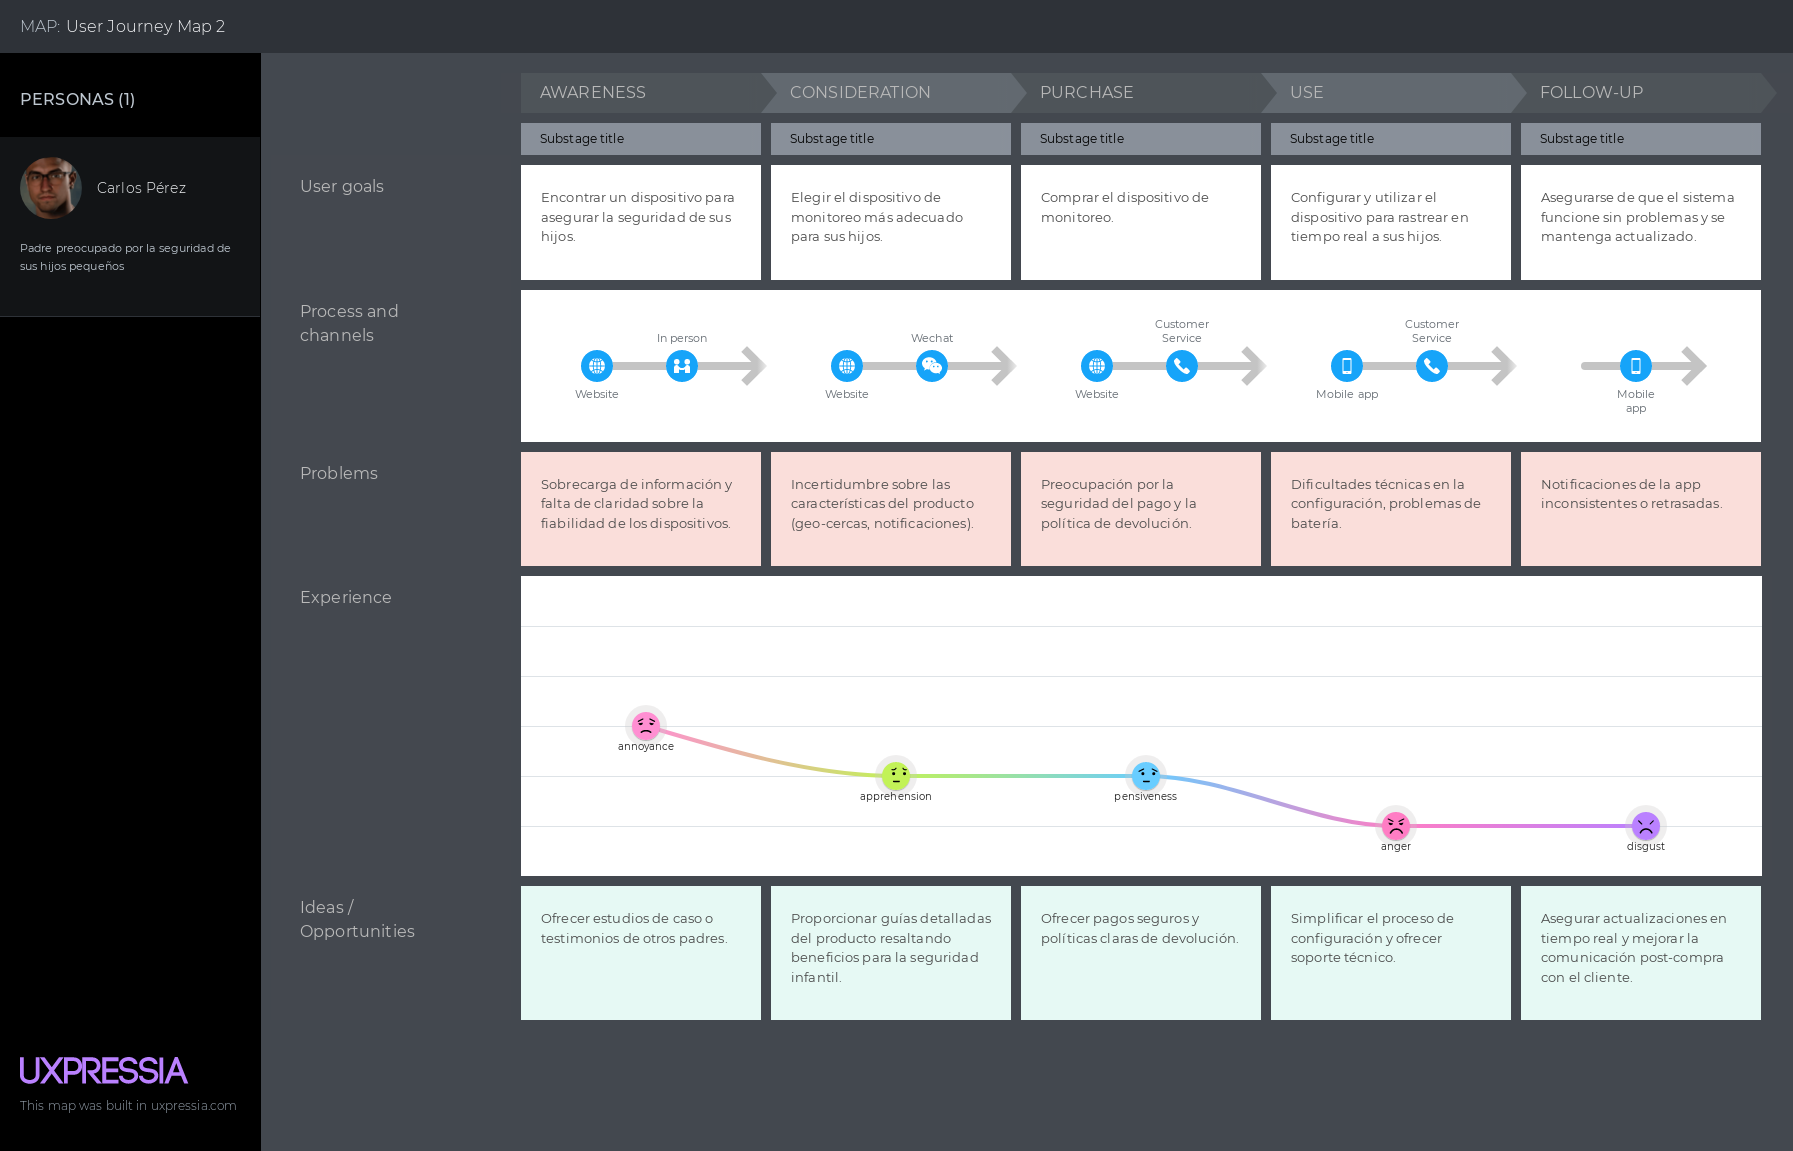
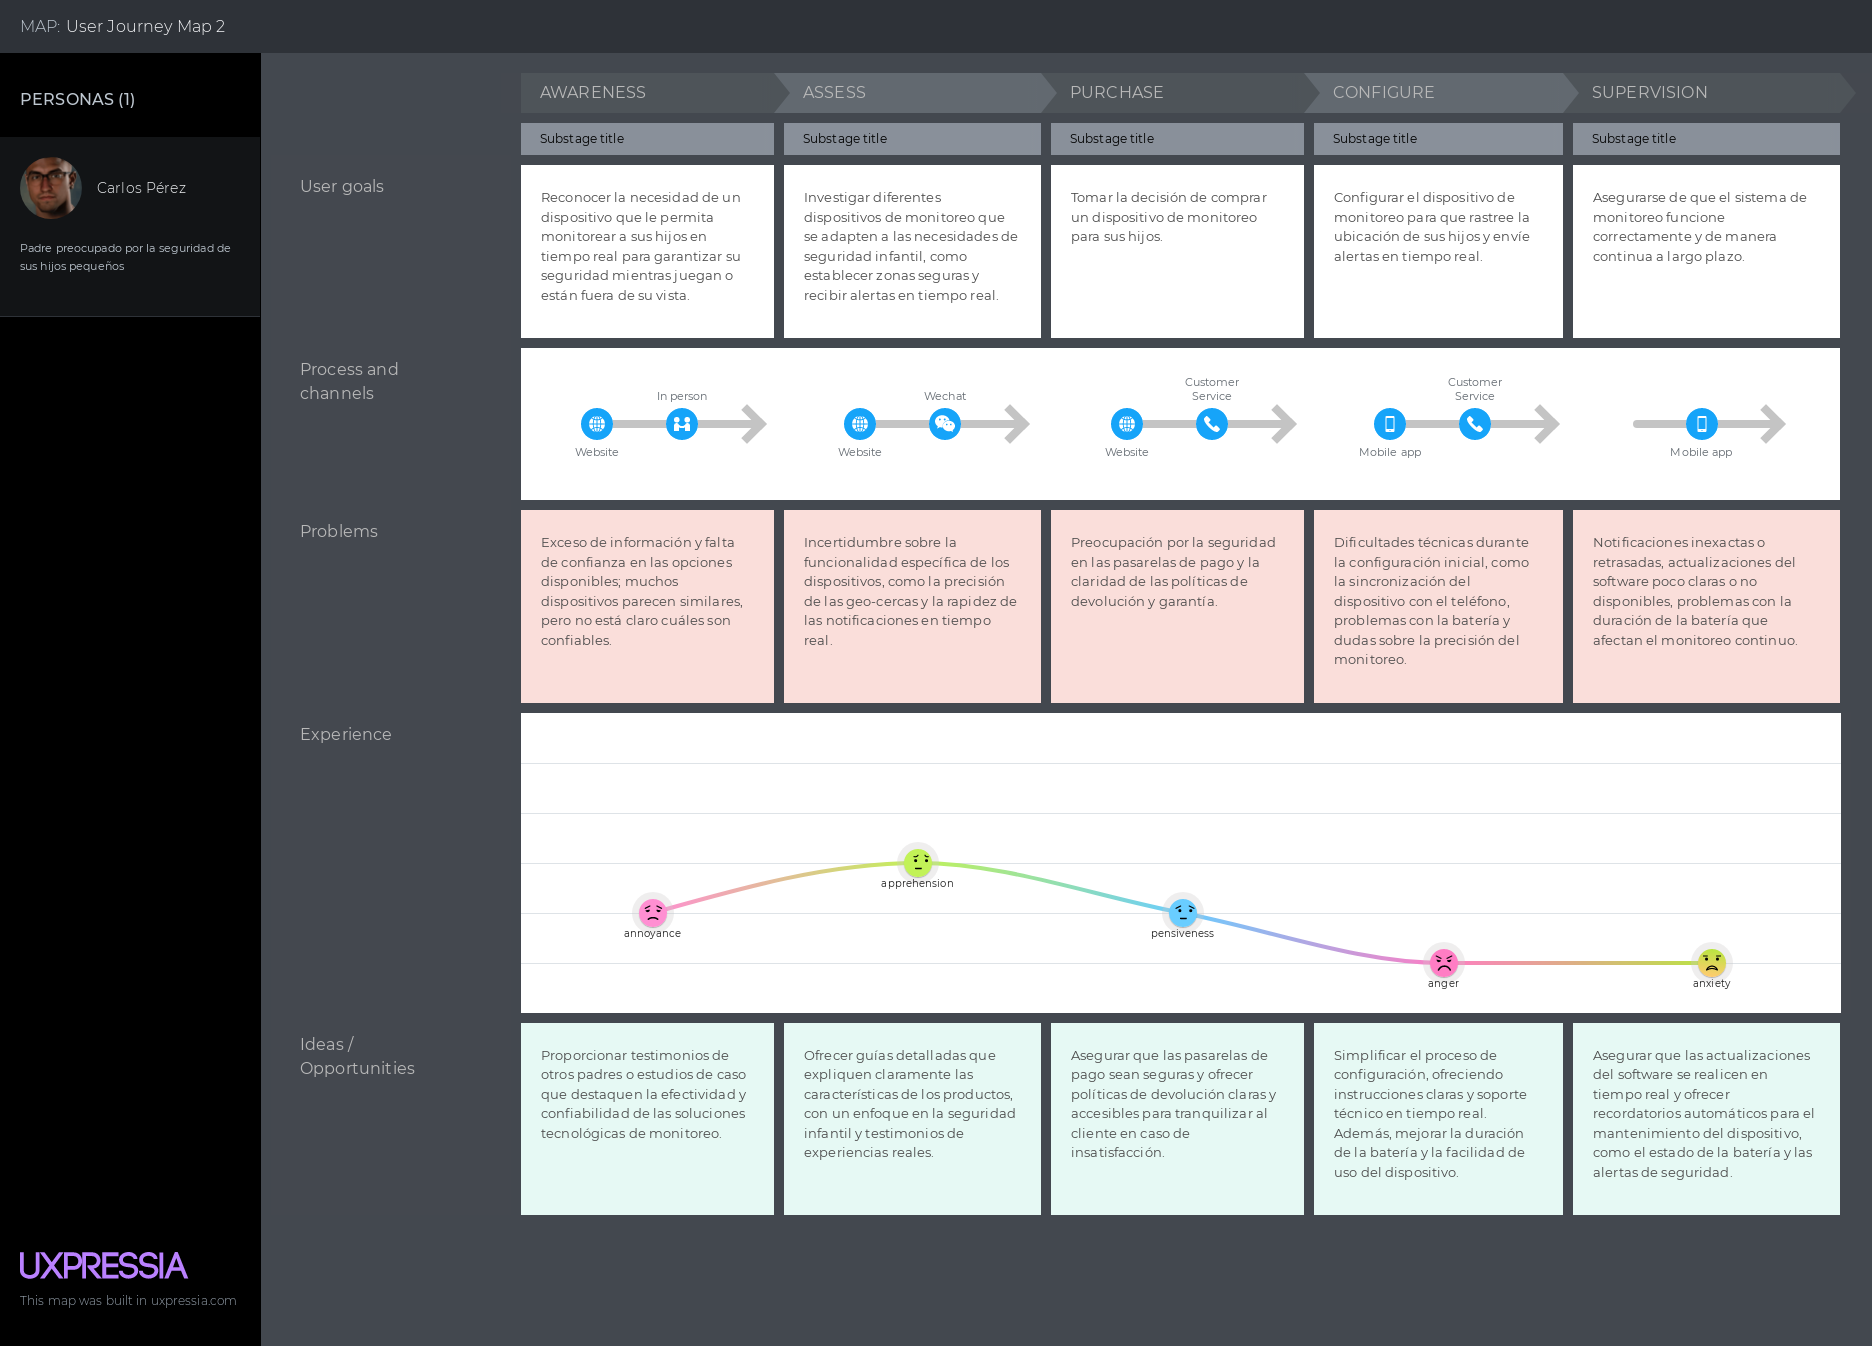
fix: update user journey mapping

Changed region(s): [[0.2811, 0.0304, 0.9994, 0.9123], [0.0, 0.0, 0.2186, 1.0]]

diff --git a/README.md b/README.md
@@ -1191,11 +1191,15 @@ Esta sección se enfoca en la investigación, utilizando los datos recopilados a
 
 **Segmento 1**
 
+María López enfrenta la constante preocupación por la seguridad de su madre con Alzheimer. A falta de una solución tecnológica adecuada, depende de métodos manuales y el apoyo de familiares, lo que genera ansiedad y estrés continuo. Su journey está marcado por la frustración de no poder actuar rápidamente en situaciones de riesgo, reforzando la necesidad de una herramienta confiable que le brinde tranquilidad.
+
 <div style="text-align: center; margin-top: 10px">
       <img src="./images/chapter-02/user_journey_map_1.png" alt="User Journey Map 1" width="100%">
 </div>
 
 **Segmento 2**
+
+Carlos Pérez busca una solución de monitoreo para garantizar la seguridad de sus hijos, pero se enfrenta a un mercado confuso con opciones poco claras. A medida que evalúa productos, experimenta dudas sobre su efectividad y seguridad. Su journey está lleno de incertidumbre mientras intenta encontrar una herramienta confiable que le permita proteger a sus hijos sin depender solo de su supervisión personal.
 
 <div style="text-align: center; margin-top: 10px">
       <img src="./images/chapter-02/user_journey_map_2.png" alt="User Journey Map 2" width="100%">
